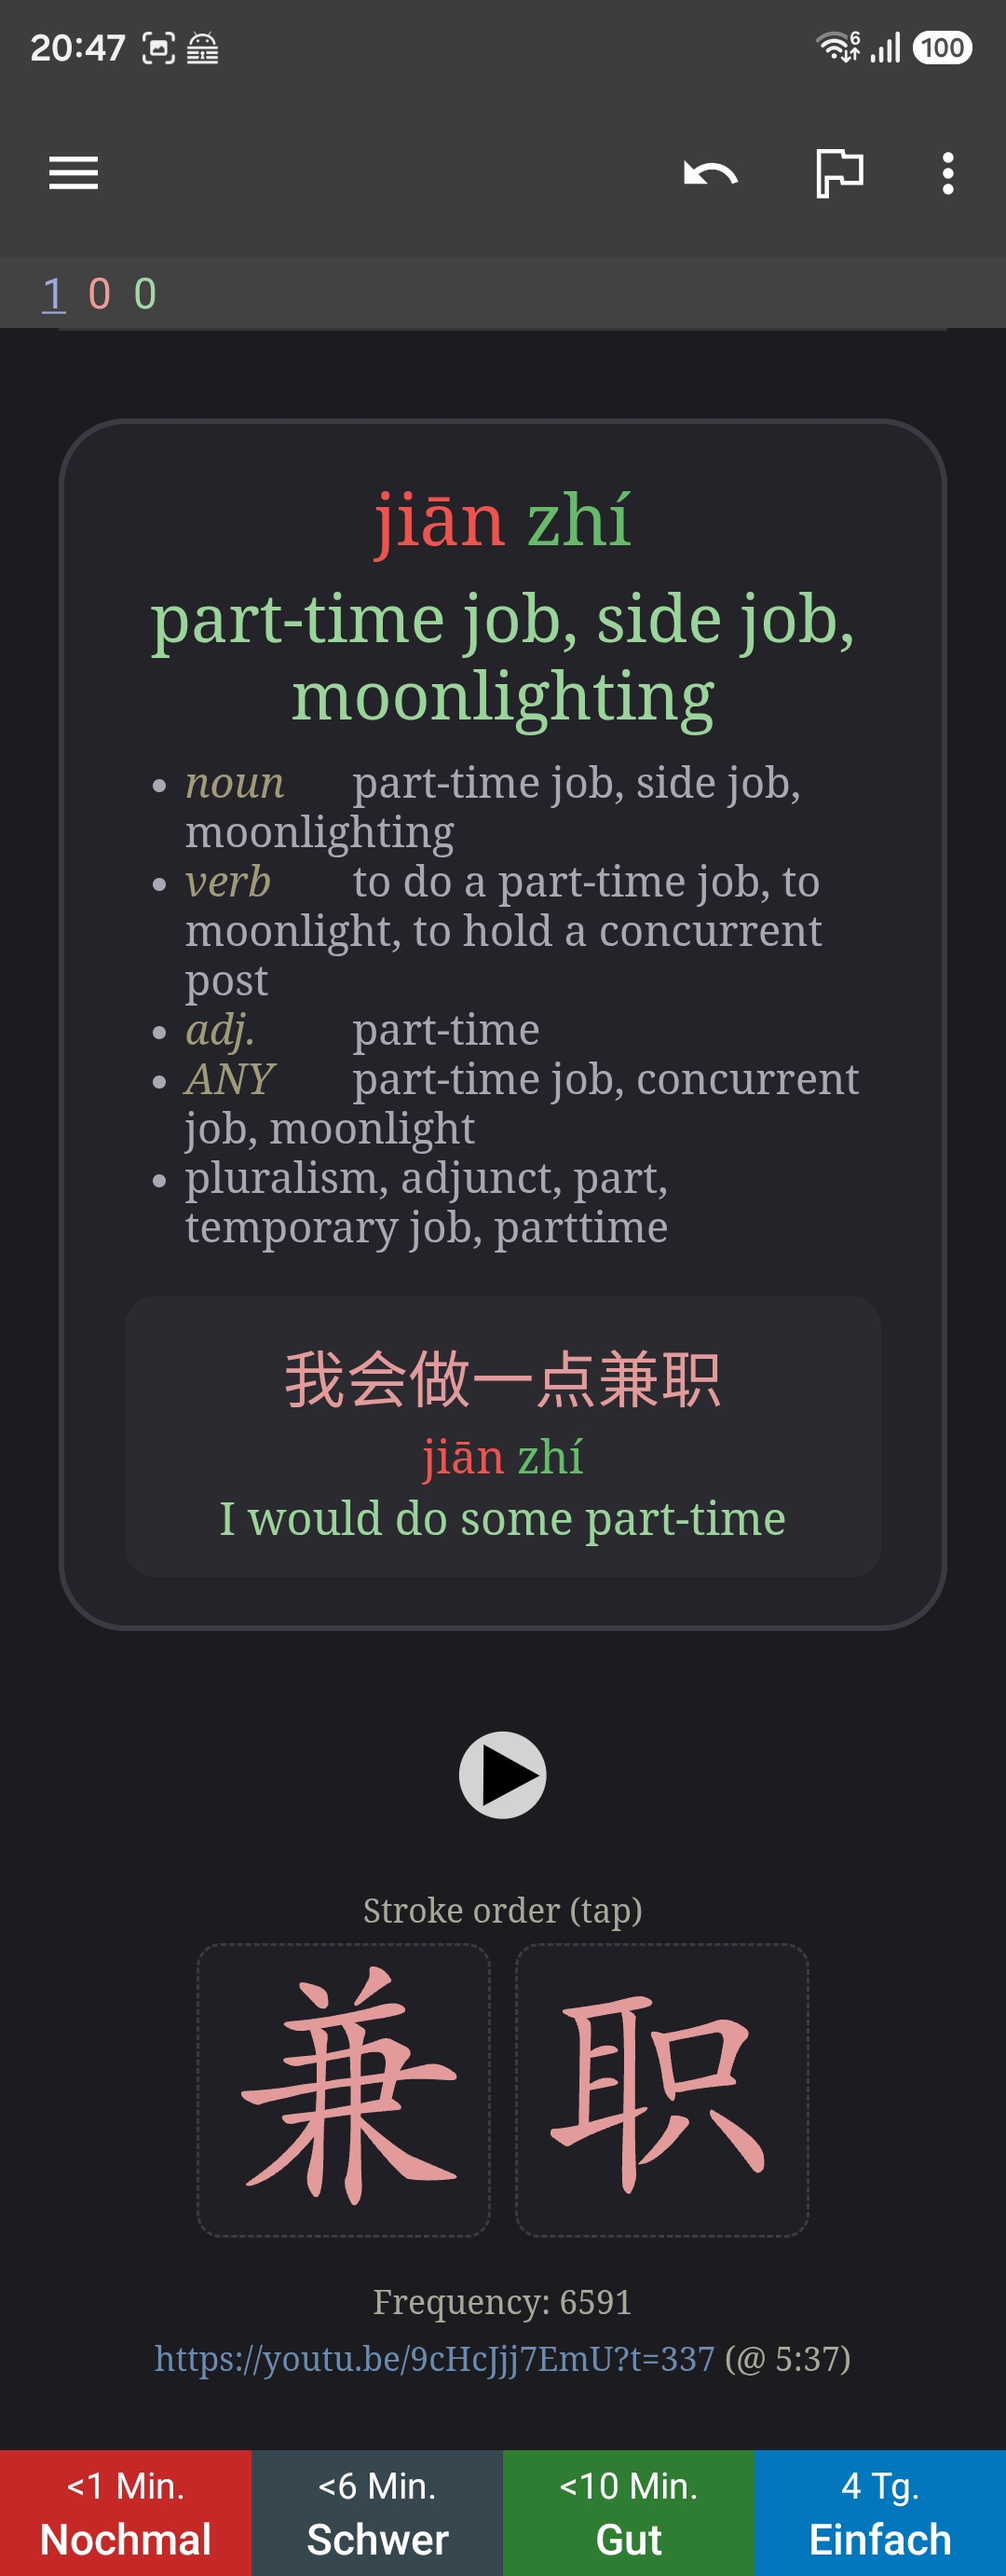
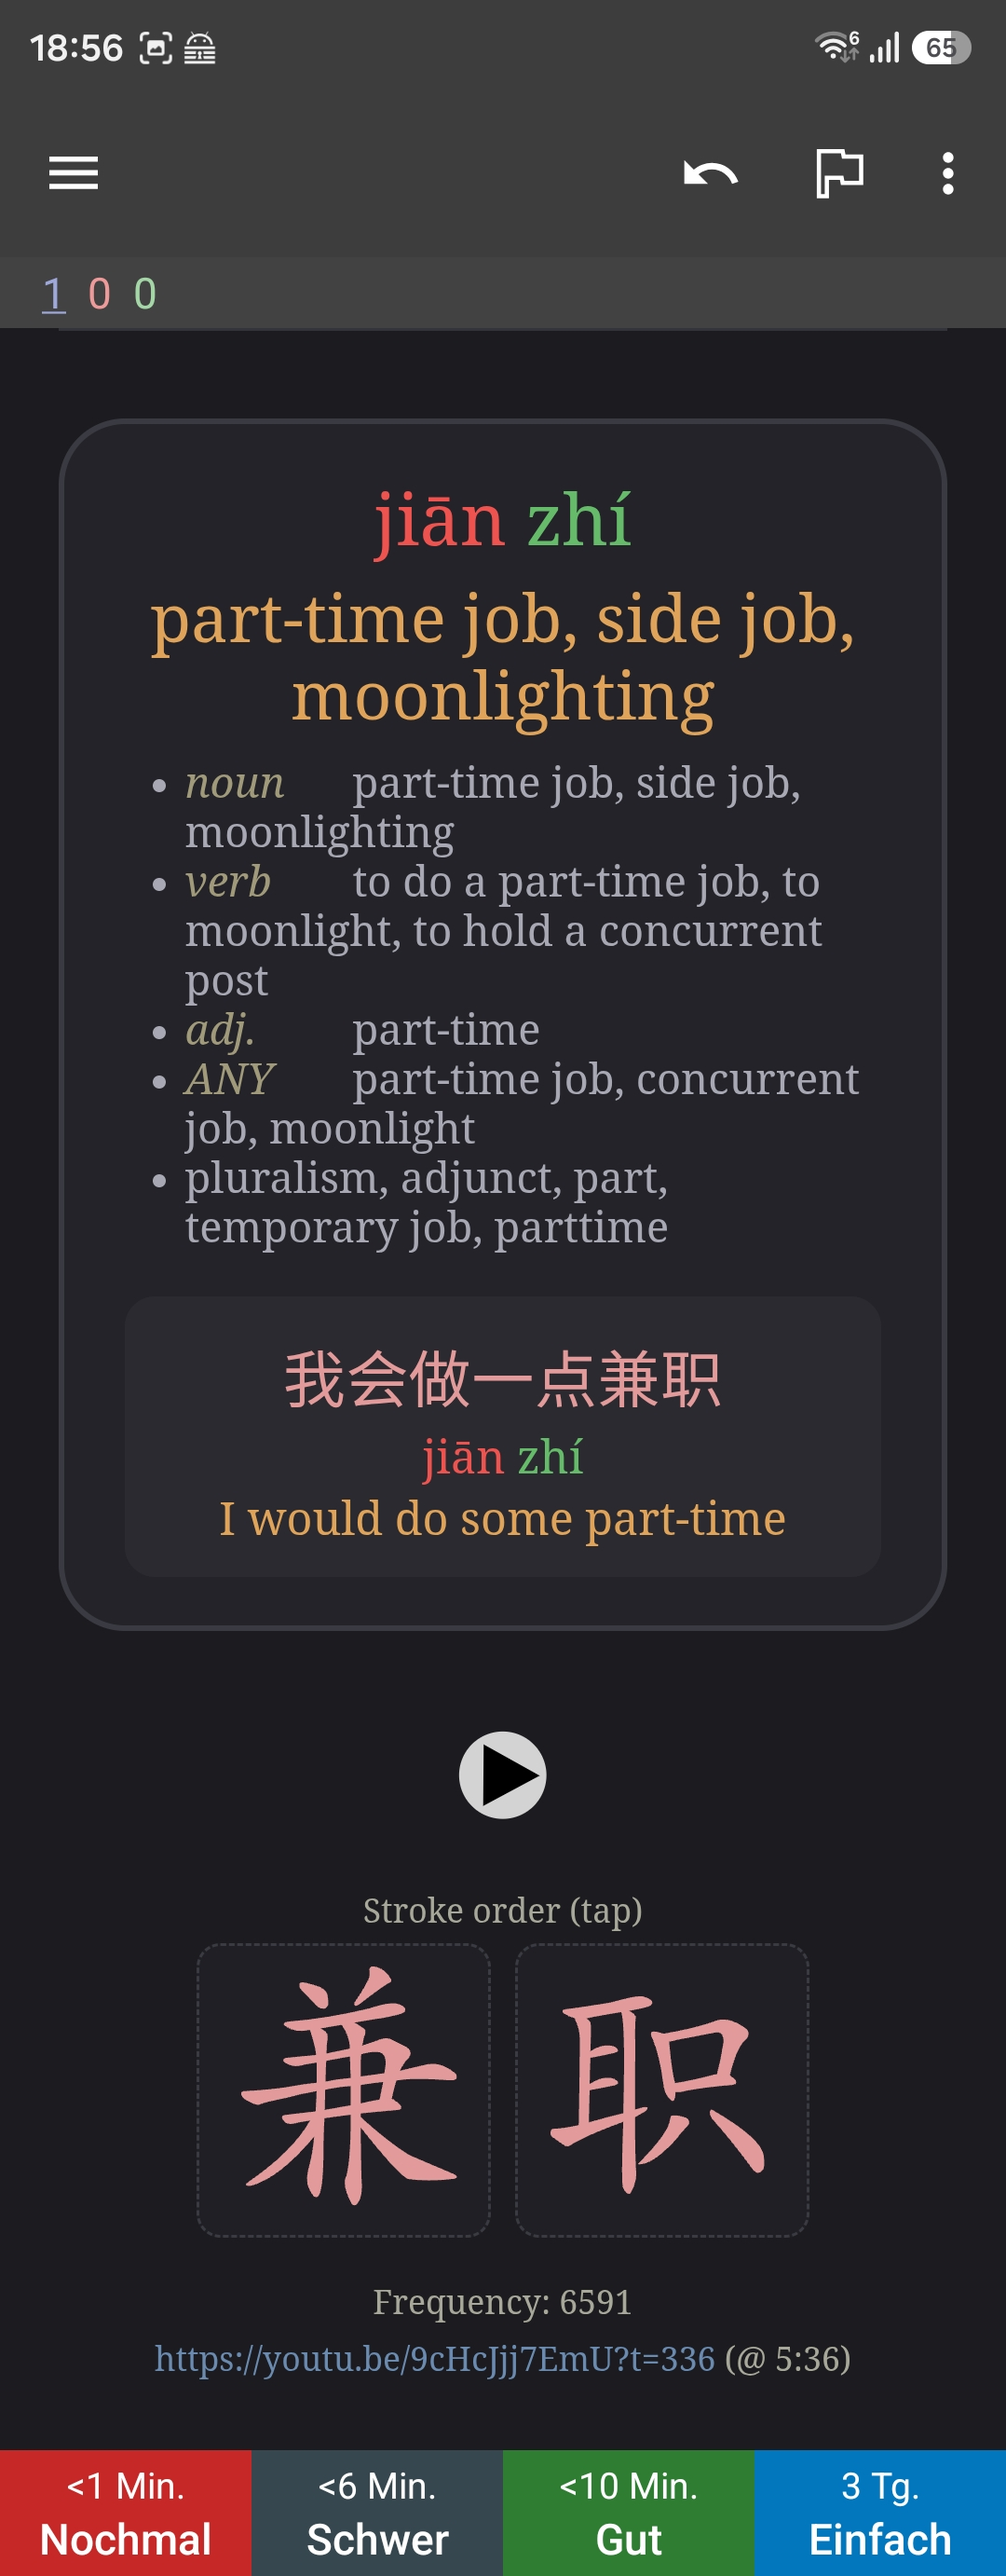
Fix zero-width spaces in sentence split; distinct translation color (v1.1.1)
Two user-facing fixes bundled as a patch release:

- Sentence field split: Language Reactor injects zero-width characters
  (U+200B..U+200F, U+2060, U+FEFF) between syllables. They do not match
  \s, so a Pinyin syllable picked up an invisible prefix, failed the
  Pinyin check, and cut the Pinyin/translation split short - spilling the
  rest of the Pinyin plus the translation into SentencePinyin. New
  stripInvisible() removes these characters before tokenization, wired
  into keepHanzi/keepPinyin/splitPinyinTranslation/cleanTranslation and
  the extraction's text normalizer. Covered by two new unit tests.

- Card styling: the translation/meaning color was green, too close to the
  Pinyin tone-2 green (a worldwide-standard tone scheme). Changed to amber
  (#bf6a00 light / #e0a35a dark) for .bedeutung, .bedeutung-prompt and
  .satz-trans, clearly distinct in both light and dark mode.

Also refreshes the documentation screenshots to the new amber styling.

diff --git a/src/lib/sanitize.ts b/src/lib/sanitize.ts
@@ -2,14 +2,24 @@
 // in die Hanzi-/Uebersetzungszeile mischt. Bewusst DOM-frei und ohne Seiteneffekte,
 // damit sie als Unit-Tests pruefbar sind (siehe sanitize.test.ts).
 
+/**
+ * Entfernt unsichtbare Null-Breite-/Steuerzeichen, die LR zwischen die Silben
+ * mischt (U+200B..U+200F Zero-Width/Richtungsmarken, U+2060 Word Joiner,
+ * U+FEFF BOM). Sie matchen `\s` NICHT, haengen sich sonst an eine Pinyin-Silbe
+ * und zerbrechen die Tokenisierung (die Silbe gilt dann nicht mehr als Pinyin).
+ */
+export function stripInvisible(s: string): string {
+  return s.replace(/[\u200B-\u200F\u2060\uFEFF]/g, '');
+}
+
 /** Behaelt nur CJK-Ideogramme und CJK-/Vollbreiten-Satzzeichen. */
 export function keepHanzi(s: string): string {
-  return s.replace(/[^㐀-鿿　-〿＀-￯]/g, '').trim();
+  return stripInvisible(s).replace(/[^㐀-鿿　-〿＀-￯]/g, '').trim();
 }
 
 /** Entfernt CJK-Zeichen (laesst Latein/Pinyin/Toene stehen). */
 export function keepPinyin(s: string): string {
-  return s
+  return stripInvisible(s)
     .replace(/[㐀-鿿　-〿＀-￯]/g, '')
     .replace(/\s+/g, ' ')
     .trim();
@@ -36,7 +46,10 @@ export function splitPinyinTranslation(
   line: string,
   hanziCount: number,
 ): { pinyin: string; translation: string } {
-  const cleaned = line.replace(/\s+/g, ' ').trim().replace(/^[㐀-鿿　-〿＀-￯\s]+/u, '');
+  const cleaned = stripInvisible(line)
+    .replace(/\s+/g, ' ')
+    .trim()
+    .replace(/^[㐀-鿿　-〿＀-￯\s]+/u, '');
   const words = cleaned.split(' ').filter(Boolean);
   const cap = hanziCount > 0 ? hanziCount : words.length;
   let n = 0;
@@ -50,7 +63,7 @@ export function splitPinyinTranslation(
 
 /** Schneidet fuehrende CJK und fuehrende Pinyin-Silben (die des Satzes) ab. */
 export function cleanTranslation(raw: string, pinyin: string): string {
-  let t = raw.replace(/\s+/g, ' ').trim();
+  let t = stripInvisible(raw).replace(/\s+/g, ' ').trim();
   t = t.replace(/^[㐀-鿿　-〿＀-￯\s]+/, '');
   const py = new Set(pinyin.split(/\s+/).filter(Boolean));
   if (py.size) {

diff --git a/src/lib/sanitize.test.ts b/src/lib/sanitize.test.ts
@@ -6,7 +6,11 @@ import {
   keepPinyin,
   looksLikePinyin,
   splitPinyinTranslation,
+  stripInvisible,
 } from './sanitize';
+
+// Zero-width space LR mixes between syllables (it does not match \s).
+const ZWSP = String.fromCharCode(0x200b); // U+200B ZERO WIDTH SPACE
 
 describe('keepHanzi', () => {
   it('removes latin/pinyin, keeps only Hanzi', () => {
@@ -76,6 +80,21 @@ describe('splitPinyinTranslation', () => {
     const r = splitPinyinTranslation('wǒ shì Something', 0);
     expect(r.pinyin).toBe('wǒ shì');
     expect(r.translation).toBe('Something');
+  });
+  it('splits correctly when LR glues zero-width spaces onto a syllable', () => {
+    // Regression: U+200B before "zi" used to make the 9th syllable fail the
+    // pinyin check, cutting the split short and spilling pinyin into German.
+    const line = `hái zi yǒu le zì jǐ de hái ${ZWSP}${ZWSP}${ZWSP}${ZWSP}zi de shí hòu Wenn das Kind selbst ein Kind hat`;
+    const r = splitPinyinTranslation(line, 12);
+    expect(r.pinyin).toBe('hái zi yǒu le zì jǐ de hái zi de shí hòu');
+    expect(r.translation).toBe('Wenn das Kind selbst ein Kind hat');
+  });
+});
+
+describe('stripInvisible', () => {
+  it('removes zero-width characters but keeps normal text', () => {
+    expect(stripInvisible(`hái${ZWSP}${ZWSP}zi`)).toBe('háizi');
+    expect(stripInvisible('hái zi')).toBe('hái zi');
   });
 });
 

diff --git a/src/lib/anki/model.ts b/src/lib/anki/model.ts
@@ -168,10 +168,10 @@ h1, h2, h3, h4, p { font-weight: normal; margin: 0; }
 .pinyin { font-size: 24px; color: #5c5c99; margin: 4px 0; }
 .night_mode .pinyin { color: #a6a6ec; }
 
-.bedeutung { font-size: 22px; color: #5e8a5e; margin: 6px 0; }
-.night_mode .bedeutung { color: #9bd49b; }
-.bedeutung-prompt { font-size: 30px; color: #5e8a5e; margin: 28px 0; }
-.night_mode .bedeutung-prompt { color: #9bd49b; }
+.bedeutung { font-size: 22px; color: #bf6a00; margin: 6px 0; }
+.night_mode .bedeutung { color: #e0a35a; }
+.bedeutung-prompt { font-size: 30px; color: #bf6a00; margin: 28px 0; }
+.night_mode .bedeutung-prompt { color: #e0a35a; }
 
 .hint-line { margin: 12px 0; }
 a.hint { color: #9a9a4d; text-decoration: none; font-size: 20px; }
@@ -232,8 +232,8 @@ a.hint { color: #9a9a4d; text-decoration: none; font-size: 20px; }
 .night_mode .satz-hanzi { color: #e39a9a; }
 .satz-pinyin { font-size: 15px; color: #5c5c99; }
 .night_mode .satz-pinyin { color: #a6a6ec; }
-.satz-trans { font-size: 15px; color: #5e8a5e; margin-top: 3px; }
-.night_mode .satz-trans { color: #9bd49b; }
+.satz-trans { font-size: 15px; color: #bf6a00; margin-top: 3px; }
+.night_mode .satz-trans { color: #e0a35a; }
 
 .frequenz { font-size: 11px; color: #a8a89a; margin-bottom: 6px; }
 

diff --git a/src/lib/extract.ts b/src/lib/extract.ts
@@ -5,12 +5,14 @@ import {
   keepHanzi,
   keepPinyin,
   splitPinyinTranslation,
+  stripInvisible,
 } from './sanitize';
 import type { Meaning, Sentence, VideoSource, VocabCard } from './types';
 
-/** textContent, Mehrfach-Whitespace zu einem Space normalisiert, getrimmt. */
+/** textContent, unsichtbare Zero-Width-Zeichen entfernt, Mehrfach-Whitespace zu
+ *  einem Space normalisiert, getrimmt. */
 function txt(el: Element | null | undefined): string {
-  return (el?.textContent ?? '').replace(/\s+/g, ' ').trim();
+  return stripInvisible(el?.textContent ?? '').replace(/\s+/g, ' ').trim();
 }
 
 /** Nur die direkten Textknoten eines Elements (ohne Kinder), ohne Whitespace. */
@@ -19,7 +21,7 @@ function directText(el: Element): string {
   el.childNodes.forEach((n) => {
     if (n.nodeType === Node.TEXT_NODE) s += n.textContent ?? '';
   });
-  return s.replace(/\s+/g, '').trim();
+  return stripInvisible(s).replace(/\s+/g, '').trim();
 }
 
 /** Hanzi aus einem data-word-key wie "WORD|新手|zh-CN". */
